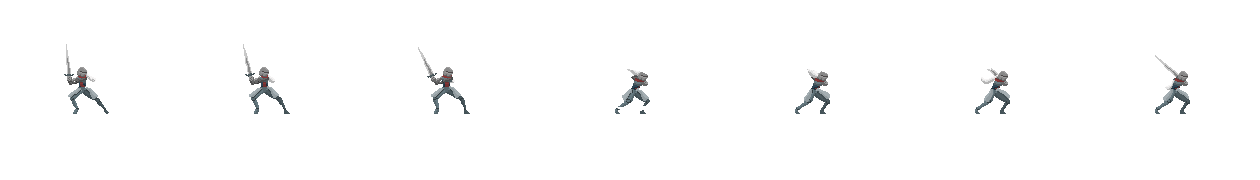
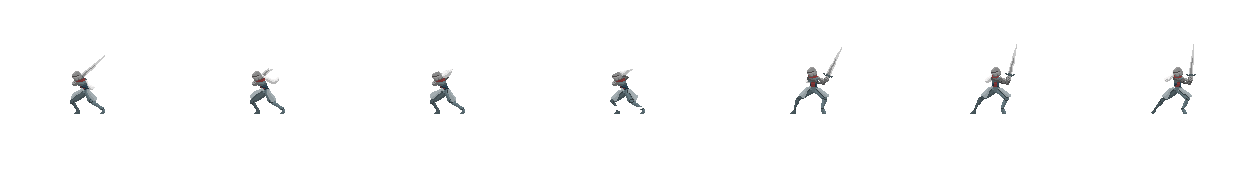
changed attack box for both sprites direction and space

diff --git a/index.js b/index.js
@@ -44,7 +44,7 @@ offset: {
    framesMax: 8,
    scale: 2.6,
    offset: {
-    x: 215,
+    x: 180,
     y: 180,
    },
    sprites: {
@@ -70,6 +70,14 @@ offset: {
 
 
     }
+  },
+  attackBox: {
+    offset: {
+      x: 150,
+      y: 0
+    },
+    width: 160,
+    height: 50
   }
 })
 
@@ -93,7 +101,7 @@ const enemy = new Fighter({
    framesMax: 11,
    scale: 2.8,
    offset: {
-    x: 215,
+    x: -100,
     y: 180,
    },
    sprites: {
@@ -119,6 +127,14 @@ const enemy = new Fighter({
 
 
     }
+  },
+  attackBox: {
+    offset: {
+      x: 0,
+      y: 0
+    },
+    width: 100,
+    height: 50
   }
 })
 
@@ -166,13 +182,13 @@ function animate() {
   } else {
     player.switchSprite('idle')
   }
-
   // Jumping
    if (player.velocity.y < 0) {
    player.switchSprite('jump')
    } else if (player.velocity.y > 0) {
     player.switchSprite('fall')
    }
+
 
   // Enemy Movement //
   if (keys.ArrowLeft.pressed && enemy.lastkey === 'ArrowLeft') {
@@ -197,11 +213,16 @@ function animate() {
       rectangle1: player,
       rectangle2: enemy
     }) &&
-    player.isAttacking
+    player.isAttacking && player.framesCurrent === 4
     ) {
       player.isAttacking = false
       enemy.health -= 20
       document.querySelector('#enemyHealth').style.width = enemy.health + '%'
+  }
+
+  // If player misses attack
+  if (player.isAttacking && player.framesCurrent === 4) {
+    player.isAttacking = false
   }
 
   if (

diff --git a/js/classes.js b/js/classes.js
@@ -60,7 +60,8 @@ class Fighter extends Sprite {
      scale = 1,
      framesMax = 1,
      offset = {x: 0, y: 0},
-     sprites
+     sprites,
+     attackBox = { offset: {}, width: undefined, height: undefined }
     }) {
       super({
         position,
@@ -79,9 +80,9 @@ class Fighter extends Sprite {
         x: this.position.x,
         y: this.position.y,
       },
-      offset,
-      width: 100,
-      height: 50,
+      offset: attackBox.offset,
+      width: attackBox.width,
+      height: attackBox.height,
     }
     this.color = color
     this.isAttacking
@@ -103,8 +104,16 @@ class Fighter extends Sprite {
   update() {
     this.draw()
     this.animateFrames()
+
+    //attack boxes
     this.attackBox.position.x = this.position.x + this.attackBox.offset.x
-    this.attackBox.position.y = this.position.y
+    this.attackBox.position.y = this.position.y + this.attackBox.offset.y
+
+    c.fillRect(
+      this.attackBox.position.x,
+      this.attackBox.position.y,
+      this.attackBox.width,
+      this.attackBox.height)
 
     this.position.x += this.velocity.x
     this.position.y += this.velocity.y
@@ -119,9 +128,7 @@ class Fighter extends Sprite {
   attack() {
     this.switchSprite('attack1')
     this.isAttacking = true
-    setTimeout(() => {
-      this.isAttacking = false
-    }, 100)
+
   }
 
 
